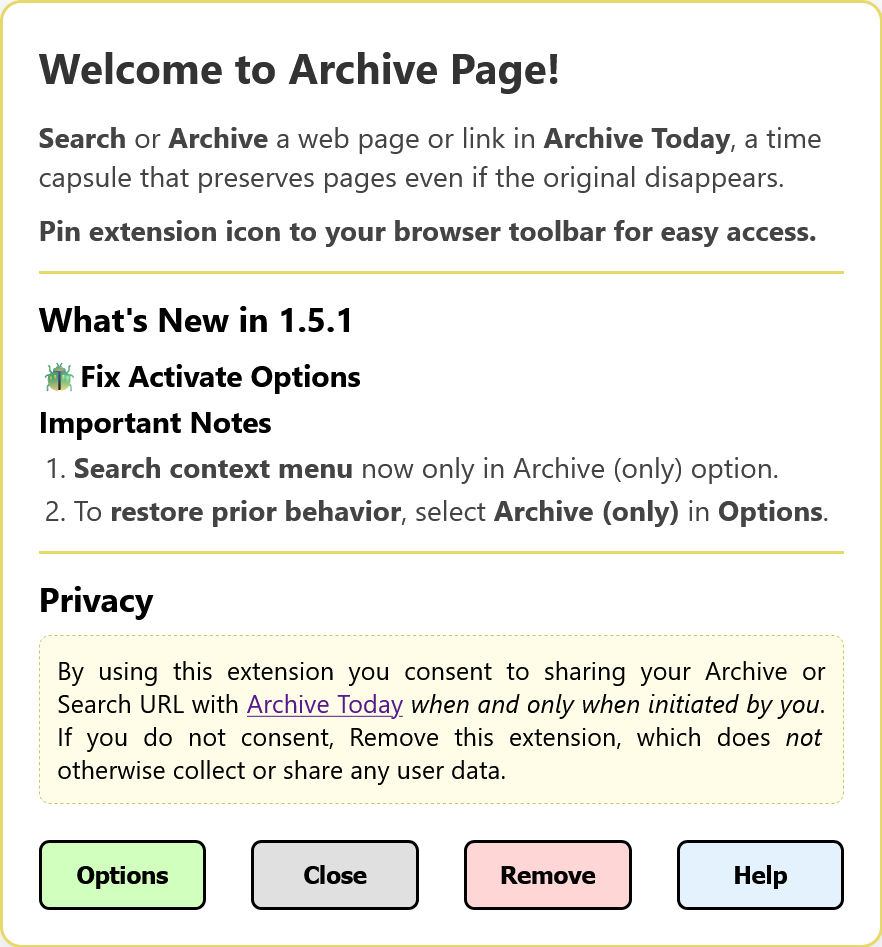
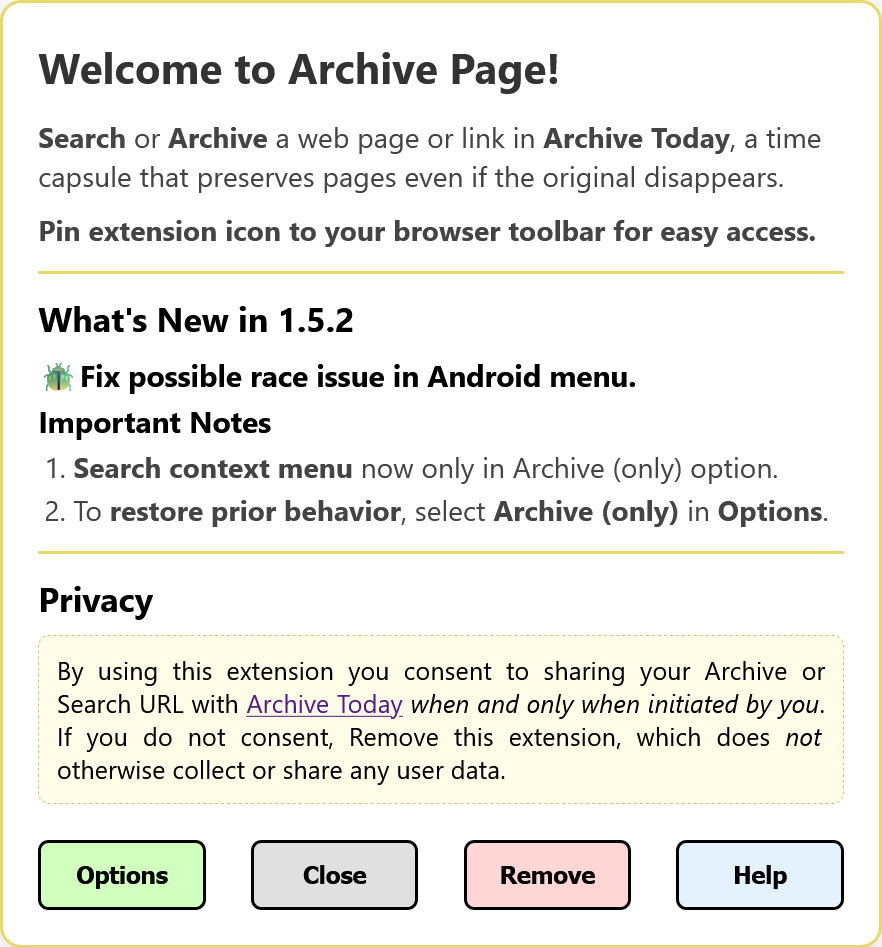
1.5.2 (Firefox only)
Fixed race issue causing Android menu to sometimes fail.

diff --git a/Firefox/background.js b/Firefox/background.js
@@ -10,10 +10,10 @@
 // For Firefox, options saved in local, not sync!
 */
 
-const browserAPI = (typeof browser !== "undefined") ? browser : chrome;
+const browserAPI = browser;
 let IS_ANDROID = false;
 
-function getArchiveUrls(tld = 'today') {
+function getArchiveUrls(tld = "today") {
   const base = `https://archive.${tld}`;
   return {
     archive: `${base}/?run=1&url=`,
@@ -27,65 +27,136 @@ async function getSettings(defaults) {
   });
 }
 
-async function doArchivePage(uri, activate) {
+async function doArchivePage(uri, activate, indexHint = null) {
   try {
     const settings = await getSettings({ tabCtl: "adjacent", archiveTld: "today" });
     const urls = getArchiveUrls(settings.archiveTld);
+
+    if (indexHint !== null) {
+      await browserAPI.tabs.create({
+        url: urls.archive + encodeURIComponent(uri),
+        index: indexHint + 1,
+        active: activate
+      });
+      return;
+    }
+
     const tabs = await browserAPI.tabs.query({ active: true, currentWindow: true });
 
     if (settings.tabCtl === "end") {
-      await browserAPI.tabs.create({ url: urls.archive + encodeURIComponent(uri), index: 999, active: activate });
+      await browserAPI.tabs.create({
+        url: urls.archive + encodeURIComponent(uri),
+        index: 999,
+        active: activate
+      });
     } else if (settings.tabCtl === "active") {
-      await browserAPI.tabs.update(tabs[0].id, { url: urls.archive + encodeURIComponent(uri) });
+      await browserAPI.tabs.update(tabs[0].id, {
+        url: urls.archive + encodeURIComponent(uri)
+      });
     } else {
-      await browserAPI.tabs.create({ url: urls.archive + encodeURIComponent(uri), index: tabs[0].index + 1, active: activate });
+      await browserAPI.tabs.create({
+        url: urls.archive + encodeURIComponent(uri),
+        index: tabs[0].index + 1,
+        active: activate
+      });
     }
-  } catch (e) { console.error("Archive failed:", e); }
+  } catch (e) {
+    console.error("Archive failed:", e);
+  }
 }
 
-async function doSearchPage(uri, activate) {
+async function doSearchPage(uri, activate, indexHint = null) {
   try {
     const settings = await getSettings({ tabCtl: "adjacent", archiveTld: "today" });
     const urls = getArchiveUrls(settings.archiveTld);
+
+    if (indexHint !== null) {
+      await browserAPI.tabs.create({
+        url: urls.search + encodeURIComponent(uri),
+        index: indexHint + 1,
+        active: activate
+      });
+      return;
+    }
+
     const tabs = await browserAPI.tabs.query({ active: true, currentWindow: true });
     const idx = settings.tabCtl === "end" ? 999 : tabs[0].index + 1;
-    await browserAPI.tabs.create({ url: urls.search + encodeURIComponent(uri), index: idx, active: activate });
-  } catch (e) { console.error("Search failed:", e); }
+
+    await browserAPI.tabs.create({
+      url: urls.search + encodeURIComponent(uri),
+      index: idx,
+      active: activate
+    });
+  } catch (e) {
+    console.error("Search failed:", e);
+  }
 }
 
 async function updateUI() {
   if (IS_ANDROID) return;
+
   const s = await getSettings({ toolbarAction: "menu" });
-  browserAPI.browserAction.setPopup({ popup: s.toolbarAction === "menu" ? "dropdown.html" : "" });
+  browserAPI.browserAction.setPopup({
+    popup: s.toolbarAction === "menu" ? "dropdown.html" : ""
+  });
+
   await browserAPI.contextMenus.removeAll();
-  if (s.toolbarAction === "archive") browserAPI.contextMenus.create({ id: "searchPage", title: "Search archive for page", contexts: ["page"] });
-  browserAPI.contextMenus.create({ id: "searchLink", title: "Search link", contexts: ["link"] });
-  browserAPI.contextMenus.create({ id: "archiveLink", title: "Archive link", contexts: ["link"] });
+
+  if (s.toolbarAction === "archive") {
+    browserAPI.contextMenus.create({
+      id: "searchPage",
+      title: "Search archive for page",
+      contexts: ["page"]
+    });
+  }
+
+  browserAPI.contextMenus.create({
+    id: "searchLink",
+    title: "Search link",
+    contexts: ["link"]
+  });
+
+  browserAPI.contextMenus.create({
+    id: "archiveLink",
+    title: "Archive link",
+    contexts: ["link"]
+  });
 }
 
 async function saveActiveTabUrl() {
   const tabs = await browserAPI.tabs.query({ active: true, currentWindow: true });
+
   if (tabs.length > 0) {
     let url = tabs[0].url;
+    let index = tabs[0].index;
 
-    if (url.startsWith('moz-extension://') || url.startsWith('about:')) {
+    if (url.startsWith("moz-extension://") || url.startsWith("about:")) {
       const all = await browserAPI.tabs.query({ currentWindow: true });
-      url = all.find(t => t.url && /^https?:\/\//i.test(t.url))?.url || url;
+      const real = all.find(t => t.url && /^https?:\/\//i.test(t.url));
+      if (real) {
+        url = real.url;
+        index = real.index;
+      }
     }
 
-    await browserAPI.storage.local.set({ savedActiveUrl: url });
+    await browserAPI.storage.local.set({
+      savedActiveUrl: url,
+      savedActiveIndex: index
+    });
   }
 }
 
 browserAPI.runtime.getPlatformInfo().then(async info => {
-  IS_ANDROID = (info.os === "android");
+  IS_ANDROID = info.os === "android";
 
   if (IS_ANDROID) {
     browserAPI.browserAction.setPopup({ popup: "" });
 
     browserAPI.browserAction.onClicked.addListener(async () => {
       await saveActiveTabUrl();
-      browserAPI.tabs.create({ url: browserAPI.runtime.getURL("android_action_tab.html") });
+      browserAPI.tabs.create({
+        url: browserAPI.runtime.getURL("android_action_tab.html")
+      });
     });
 
   } else {
@@ -97,7 +168,6 @@ browserAPI.runtime.getPlatformInfo().then(async info => {
       }
     });
 
-    // FIXED: Toolbar Button activation now uses cbButtonNew
     browserAPI.browserAction.onClicked.addListener(async t => {
       const s = await getSettings({ toolbarAction: "menu", cbButtonNew: true });
       if (s.toolbarAction !== "menu") {
@@ -110,13 +180,20 @@ browserAPI.runtime.getPlatformInfo().then(async info => {
     if (browserAPI.commands) {
       browserAPI.commands.onCommand.addListener(async c => {
         const t = (await browserAPI.tabs.query({ active: true, currentWindow: true }))[0];
-        if (t) c === "myArchive" ? doArchivePage(t.url, true) : doSearchPage(t.url, true);
+        if (t) {
+          c === "myArchive"
+            ? doArchivePage(t.url, true)
+            : doSearchPage(t.url, true);
+        }
       });
     }
 
-    // FIXED: Correct activation keys for context menus
     browserAPI.contextMenus.onClicked.addListener(async (i, t) => {
-      const s = await getSettings({ cbArchiveNew: true, cbSearchNew: true, cbPageNew: true });
+      const s = await getSettings({
+        cbArchiveNew: true,
+        cbSearchNew: true,
+        cbPageNew: true
+      });
 
       if (i.menuItemId === "archiveLink") {
         doArchivePage(i.linkUrl, s.cbArchiveNew);
@@ -129,54 +206,60 @@ browserAPI.runtime.getPlatformInfo().then(async info => {
   }
 });
 
-browserAPI.runtime.onMessage.addListener((message, sender) => {
+browserAPI.runtime.onMessage.addListener(async message => {
   if (!message || !message.action) return;
 
+  if (IS_ANDROID) {
+    const result = await browserAPI.storage.local.get([
+      "savedActiveUrl",
+      "savedActiveIndex",
+      "cbArchiveNew",
+      "cbSearchNew"
+    ]);
+
+    const url = result.savedActiveUrl;
+    const idx = result.savedActiveIndex;
+
+    if (!url || idx === undefined) return;
+
+    if (message.action === "archive") {
+      const act = result.cbArchiveNew ?? true;
+      doArchivePage(url, act, idx);
+    } else if (message.action === "search") {
+      const act = result.cbSearchNew ?? true;
+      doSearchPage(url, act, idx);
+    } else if (message.action === "options") {
+      browserAPI.tabs.create({ url: browserAPI.runtime.getURL("options.html") });
+    }
+
+    return;
+  }
+
+  // Desktop path unchanged
   if (message.action === "archive") {
-    if (IS_ANDROID) {
-      browserAPI.storage.local.get(["savedActiveUrl", "cbArchiveNew"], result => {
-        const act = (result.cbArchiveNew !== undefined) ? result.cbArchiveNew : true;
-        if (result.savedActiveUrl) doArchivePage(result.savedActiveUrl, act);
-      });
-    } else {
-      browserAPI.tabs.query({ active: true, currentWindow: true }).then(async tabs => {
-        if (tabs[0] && tabs[0].url) {
-          const s = await getSettings({ cbArchiveNew: true });
-          doArchivePage(tabs[0].url, s.cbArchiveNew);
-        }
-      });
+    const tabs = await browserAPI.tabs.query({ active: true, currentWindow: true });
+    if (tabs[0]) {
+      const s = await getSettings({ cbArchiveNew: true });
+      doArchivePage(tabs[0].url, s.cbArchiveNew);
     }
-  }
-
-  else if (message.action === "search") {
-    if (IS_ANDROID) {
-      browserAPI.storage.local.get(["savedActiveUrl", "cbSearchNew"], result => {
-        const act = (result.cbSearchNew !== undefined) ? result.cbSearchNew : true;
-        if (result.savedActiveUrl) doSearchPage(result.savedActiveUrl, act);
-      });
-    } else {
-      browserAPI.tabs.query({ active: true, currentWindow: true }).then(async tabs => {
-        if (tabs[0] && tabs[0].url) {
-          const s = await getSettings({ cbSearchNew: true });
-          doSearchPage(tabs[0].url, s.cbSearchNew);
-        }
-      });
+  } else if (message.action === "search") {
+    const tabs = await browserAPI.tabs.query({ active: true, currentWindow: true });
+    if (tabs[0]) {
+      const s = await getSettings({ cbSearchNew: true });
+      doSearchPage(tabs[0].url, s.cbSearchNew);
     }
-  }
-
-  else if (message.action === "options") {
+  } else if (message.action === "options") {
     browserAPI.tabs.create({ url: browserAPI.runtime.getURL("options.html") });
   }
 });
 
-// FIXED: Only show Welcome page on fresh install OR version ending in ".0"
-browserAPI.runtime.onInstalled.addListener((details) => {
+browserAPI.runtime.onInstalled.addListener(details => {
   const currentVersion = browserAPI.runtime.getManifest().version;
 
   if (details.reason === "install") {
     showWelcome();
   } else if (details.reason === "update") {
-    if (currentVersion.endsWith('.0')) {
+    if (currentVersion.endsWith(".0")) {
       showWelcome();
     }
   }

diff --git a/Firefox/android_action_tab.js b/Firefox/android_action_tab.js
@@ -4,11 +4,16 @@
     © 2026 John Navas, All Rights Reserved
 */
 
-const browserAPI = (typeof browser !== "undefined") ? browser : chrome;
+const browserAPI = browser;  // Firefox-only
 
-function sendAction(action) {
-  browserAPI.runtime.sendMessage({ action });
-  window.close();
+async function sendAction(action) {
+  try {
+    await browserAPI.runtime.sendMessage({ action });
+  } catch (e) {
+    console.error("Message failed:", e);
+  } finally {
+    window.close();
+  }
 }
 
 document.addEventListener('DOMContentLoaded', () => {

diff --git a/Firefox/welcome.html b/Firefox/welcome.html
@@ -168,8 +168,8 @@
         <p><strong>Pin extension icon to your browser toolbar for easy access.</strong></p>
 
         <div class="divider">
-            <h2>What's New in 1.5.1</h2>
-            <h3>🪲Fix Activate Options</h3>
+            <h2>What's New in 1.5.2</h2>
+            <h3>🪲Fix possible race issue in Android menu.</h3>
             <h3>Important Notes</h3>
             <ol class="tight-list">
                 <li><strong>Search context menu</strong> now only in Archive (only) option.</li>